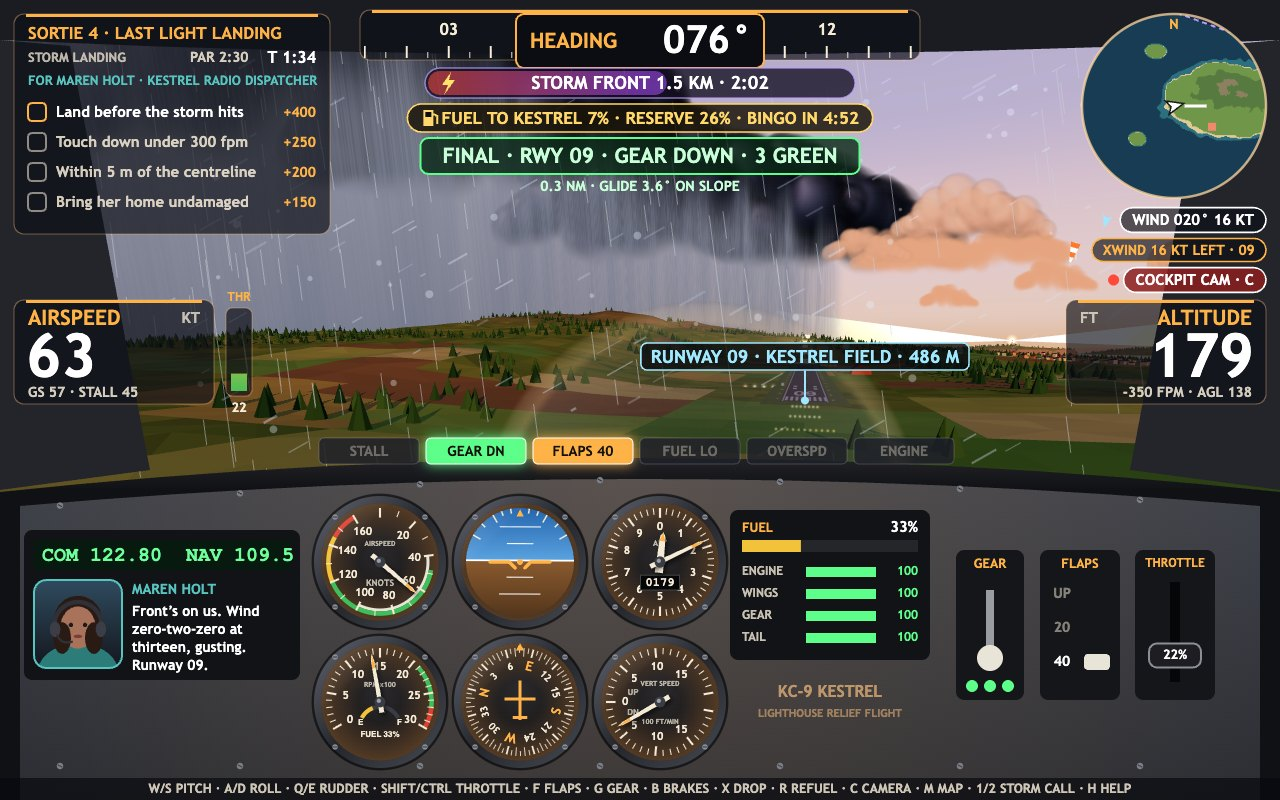
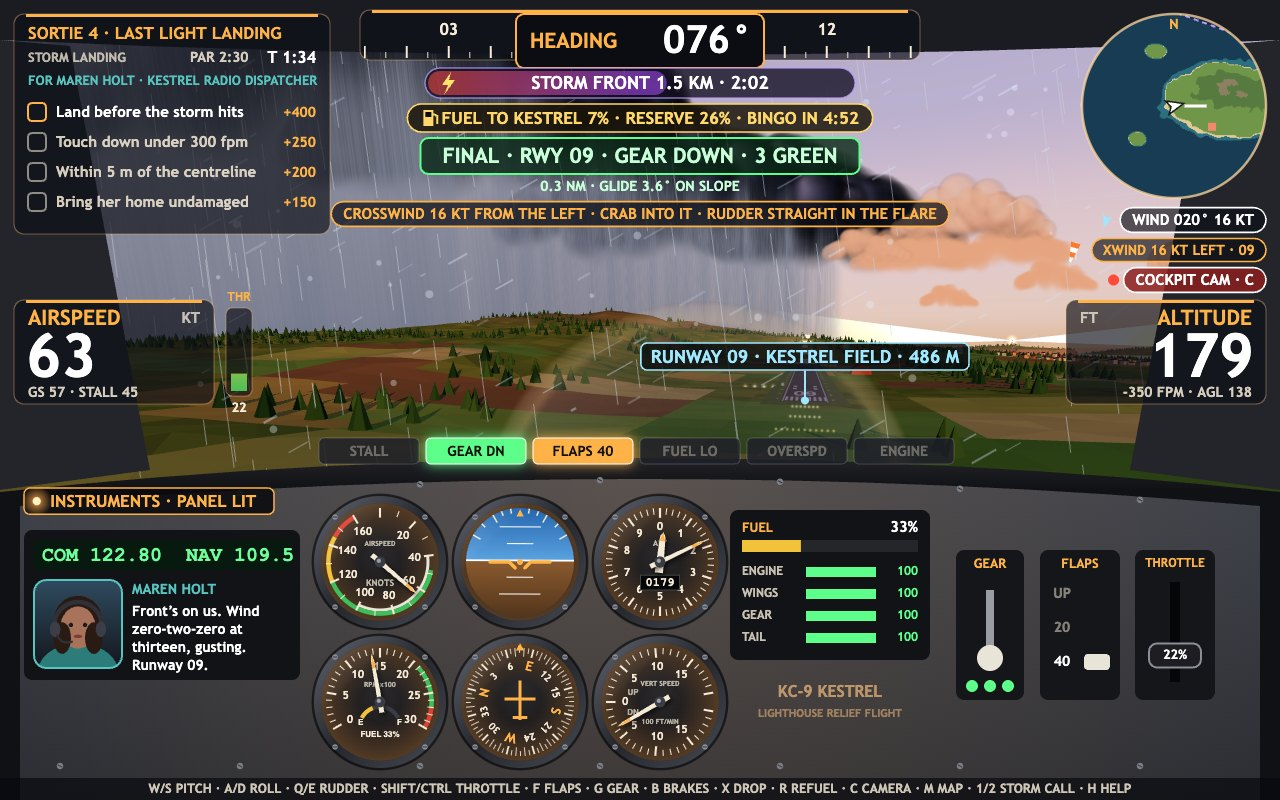
Windsocks swing with the wind, crosswind hint on final, cockpit INSTRUMENTS placard, board shows who each sortie is for and the career

Changed region(s): [[0.25, 0.25, 0.75, 0.3125], [0.0, 0.5938, 0.2188, 0.6562]]

diff --git a/game/src/mission-board.js b/game/src/mission-board.js
@@ -1,8 +1,10 @@
 // The mission board, the game's title screen: KESTREL COAST over the parked KC-9, the storm's
 // distance, and the four sorties as cards with their goal, par, fuel load, storm distance,
 // objectives and best stars. 1-4 or the arrows pick, Enter flies.
-import { FONT, panel, text } from './hud.js';
+import { FONT, measure, panel, text } from './hud-paint.js';
 import { MISSIONS, clock } from './missions.js';
+import { drawPortrait, speakerOf } from './radio-portraits.js';
+import { careerUpgrades, rankOf } from './pilot-career.js';
 import { createAircraft } from './flight-physics.js';
 import { quatFromAttitude } from './flight-math.js';
 
@@ -93,8 +95,23 @@ function stars(g, x, y, count, size, align = 'left') {
 }
 export { stars as drawStars };
 
+/** The pilot's rank, progress and fitted upgrades, top right of the board. */
+function careerStrip(g, x, y, w, career) {
+  const rank = rankOf(career.points);
+  panel(g, x, y, w, 112, '#ffd54a');
+  text(g, 'PILOT CAREER', x + 16, y + 20, 13, AMBER, 'left', 900);
+  text(g, `${career.points.toLocaleString('en-GB')} PTS · ${Object.values(career.medals).reduce((s, n) => s + n, 0)} MEDALS`, x + w - 16, y + 20, 12, 'rgba(246,236,216,0.8)', 'right', 800);
+  text(g, rank.name, x + 16, y + 48, 26, '#ffffff', 'left', 900);
+  g.fillStyle = 'rgba(255,255,255,0.12)';
+  g.fillRect(x + 16, y + 66, w - 32, 7);
+  g.fillStyle = '#ffd54a';
+  g.fillRect(x + 16, y + 66, (w - 32) * Math.min(1, rank.progress), 7);
+  const fitted = careerUpgrades(career);
+  text(g, fitted.length ? `FITTED: ${fitted.map((u) => u.name).join(' · ')}` : `NEXT RANK FITS THE LONG-RANGE TANK`, x + 16, y + 92, 11, fitted.length ? '#5dff8a' : 'rgba(246,236,216,0.7)', 'left', 800);
+}
+
 /** Draw the board. `best` maps mission id to best stars; `selected` is the highlighted index. */
-export function drawMissionBoard(g, W, H, selected, best, stormKm, time) {
+export function drawMissionBoard(g, W, H, selected, best, stormKm, time, career = null) {
   const shade = g.createLinearGradient(0, 0, 0, H);
   shade.addColorStop(0, 'rgba(10,10,20,0.55)');
   shade.addColorStop(0.35, 'rgba(10,10,20,0)');
@@ -106,7 +123,7 @@ export function drawMissionBoard(g, W, H, selected, best, stormKm, time) {
   text(g, 'LIGHTHOUSE RELIEF · A BUSH-PILOT SORTIE GAME', 44, 116, 20, AMBER, 'left', 800);
   g.fillStyle = 'rgba(20,16,34,0.78)';
   g.beginPath();
-  g.roundRect(44, 136, 470, 34, 17);
+  g.roundRect(44, 136, 500, 34, 17);
   g.fill();
   g.strokeStyle = 'rgba(190,160,255,0.7)';
   g.stroke();
@@ -138,9 +155,11 @@ export function drawMissionBoard(g, W, H, selected, best, stormKm, time) {
     g.arc(x + 46, y + 50, 30, 0, Math.PI * 2);
     g.fill();
     icon(g, i, x + 46, y + 50, 48, colour);
-    text(g, `${m.number}`, x + cardW - 22, y + 30, 30, colour, 'right', 900);
     text(g, m.kind.toUpperCase(), x + 88, y + 34, 13, colour, 'left', 800);
-    text(g, m.title, x + 88, y + 58, 21, '#ffffff', 'left', 800);
+    text(g, m.title, x + 88, y + 56, Math.min(21, (21 * (cardW - 100)) / measure(g, m.title, 21, 800)), '#ffffff', 'left', 800);
+    const client = speakerOf(m.client.who);
+    drawPortrait(g, x + 88, y + 70, 22, m.client.who);
+    text(g, `FOR ${client.name}`, x + 116, y + 82, 12, client.colour, 'left', 900);
     g.font = `600 14px ${FONT}`;
     const words = m.blurb.split(' ');
     let line = '';
@@ -148,7 +167,7 @@ export function drawMissionBoard(g, W, H, selected, best, stormKm, time) {
     for (const word of words) {
       const test = line ? `${line} ${word}` : word;
       if (g.measureText(test).width > cardW - 30) {
-        text(g, line, x + 16, y + 100 + row * 19, 14, 'rgba(255,244,224,0.88)', 'left', 600);
+        text(g, line, x + 16, y + 106 + row * 19, 14, 'rgba(255,244,224,0.88)', 'left', 600);
         line = word;
         row += 1;
       } else line = test;
@@ -166,6 +185,7 @@ export function drawMissionBoard(g, W, H, selected, best, stormKm, time) {
     stars(g, x + 16, y + cardH - 26, best[m.id] ?? 0, 20);
     text(g, on ? 'ENTER ▸ FLY' : `PRESS ${m.number}`, x + cardW - 16, y + cardH - 26, 15, on ? colour : 'rgba(255,244,224,0.55)', 'right', 800);
   });
+  if (career) careerStrip(g, W - 400, 24, 376, career);
   g.fillStyle = 'rgba(8,9,14,0.7)';
   g.fillRect(0, H - 22, W, 22);
   text(g, '1-4 / ◀ ▶ PICK A SORTIE · ENTER FLY · W/S PITCH · A/D ROLL · Q/E RUDDER · SHIFT/CTRL THROTTLE · F FLAPS · G GEAR · C CAMERA · M MAP', W / 2, H - 11, 13, 'rgba(246,236,216,0.82)', 'center', 700);

diff --git a/game/src/town-and-airstrips.js b/game/src/town-and-airstrips.js
@@ -84,7 +84,7 @@ function lightPoints(list, size) {
   return new THREE.Points(geometry, material);
 }
 
-function buildRunway(strip, group, papis) {
+function buildRunway(strip, group, papis, socks) {
   const { ax, az, rx, rz } = runwayAxes(strip);
   const angle = (-strip.heading * Math.PI) / 180;
   const pad = new THREE.Mesh(new THREE.PlaneGeometry(strip.width + 26, strip.length + 60), shareAtmosphere(new THREE.MeshLambertMaterial({ color: '#8d9a5a', polygonOffset: true, polygonOffsetFactor: -2, polygonOffsetUnits: -20 })));
@@ -157,10 +157,21 @@ function buildRunway(strip, group, papis) {
   const wz = strip.z - rz * (strip.width / 2 + 30) + az * (strip.length / 2 - 180);
   mast.position.set(wx, strip.elev + 4, wz);
   group.add(mast);
-  const sock = new THREE.Mesh(new THREE.ConeGeometry(0.9, 5, 10, 1, true), new THREE.MeshLambertMaterial({ color: '#ff7a2a', side: THREE.DoubleSide }));
-  sock.rotation.x = Math.PI / 2;
-  sock.position.set(wx, strip.elev + 7.6, wz + 2.5);
-  group.add(sock);
+  // The windsock hangs from a pivot on the mast top; the scene swings and fills it with the wind.
+  const pivot = new THREE.Group();
+  pivot.rotation.order = 'YXZ';
+  pivot.position.set(wx, strip.elev + 7.8, wz);
+  const stripes = ['#ff7a2a', '#ffffff', '#ff7a2a', '#ffffff', '#ff7a2a'];
+  stripes.forEach((colour, k) => {
+    const r0 = 0.95 - k * 0.14;
+    const r1 = r0 - 0.14;
+    const band = new THREE.Mesh(new THREE.CylinderGeometry(r1, r0, 1.1, 10, 1, true), new THREE.MeshLambertMaterial({ color: colour, side: THREE.DoubleSide }));
+    band.rotation.x = Math.PI / 2;
+    band.position.z = 0.6 + k * 1.1;
+    pivot.add(band);
+  });
+  group.add(pivot);
+  socks.push(pivot);
 }
 
 function prismGeometry() {
@@ -317,7 +328,8 @@ function buildForests(group) {
 export function createSettlements() {
   const group = new THREE.Group();
   const papis = [];
-  for (const strip of AIRSTRIPS) buildRunway(strip, group, papis);
+  const socks = [];
+  for (const strip of AIRSTRIPS) buildRunway(strip, group, papis, socks);
   buildTown(group);
   const kestrel = AIRSTRIPS[0];
   buildRoad(group, [[TOWN.x, TOWN.z], [TOWN.x - 120, TOWN.z - 400], [kestrel.x + 200, kestrel.z + 140], [kestrel.x + 200, kestrel.z + 60]]);
@@ -329,7 +341,20 @@ export function createSettlements() {
   }
   const papiPoints = lightPoints(papiLights, 7);
   group.add(papiPoints);
-  return { group, papis, papiPoints };
+  return { group, papis, papiPoints, socks };
+}
+
+/**
+ * Swing the windsocks into the wind and let them fill: `pose` is windsockPose() from
+ * wind-and-gusts.js. A light wind leaves them drooping; a gust stands them straight out and
+ * makes them flutter.
+ */
+export function updateWindsocks(settlements, pose, time) {
+  for (const pivot of settlements.socks) {
+    const flutter = Math.sin(time * 9 + pivot.position.x) * 0.05 * pose.fill;
+    pivot.rotation.y = pose.yaw + flutter;
+    pivot.rotation.x = (1 - pose.fill) * 1.15 + Math.abs(flutter) * 0.5;
+  }
 }
 
 /**

diff --git a/game/src/world-scene.js b/game/src/world-scene.js
@@ -1,11 +1,12 @@
 // Builds the whole 3D coast once (renderer, haze, sky, islands, sea, town and airstrips,
 // lighthouse, storm, clouds, the aircraft and its effects) and moves it every frame to match the
-// sortie: rings, PAPI, lighthouse sweep, storm distance and lightning, rain, camera.
+// sortie: rings, PAPI, windsocks, lighthouse sweep, storm distance and lightning, rain, camera.
 import * as THREE from 'three';
 import { buildHeightGrid, createHeightTexture, createTerrainMesh } from './world-terrain.js';
 import { createSea } from './world-sea.js';
 import { FOG_WARM, atmosphere, createClouds, createLights, createSkyDome, followShadow, installAtmosphereFog } from './world-sky.js';
-import { createSettlements, updatePapi } from './town-and-airstrips.js';
+import { createSettlements, updatePapi, updateWindsocks } from './town-and-airstrips.js';
+import { windsockPose } from './wind-and-gusts.js';
 import { createLighthouse, updateLighthouse } from './lighthouse.js';
 import { createStormVisuals, updateStormVisuals } from './storm-visuals.js';
 import { createAircraftModel, poseAircraftModel } from './aircraft-model.js';
@@ -81,6 +82,7 @@ export function createWorldScene(canvas) {
     updateRescueProps(fx, session, time);
     if (rings && ringSession === session) updateRingMarkers(rings, session, time);
     updatePapi(settlements, camera.position);
+    updateWindsocks(settlements, windsockPose(session.lastWind), time);
     updateLighthouse(lighthouse, time, camera.position);
     const grip = stormGrip(session.storm, camera.position.x, camera.position.z);
     const rain = Math.max(session.mission.rain ? 0.75 : 0, grip);

diff --git a/game/src/world-labels.js b/game/src/world-labels.js
@@ -108,14 +108,16 @@ export function drawRunwayTags(g, frame, target) {
     const w = g.measureText(label).width + 20;
     // Board down-left of the threshold, else down-right, else above it: never over the aircraft
     // (the chase view keeps her low in the middle) and never off the screen.
-    const plane = { x0: W / 2 - 160, x1: W / 2 + 160, y0: H * 0.58, y1: H * 0.8 };
-    const below = Math.min(H - 236, p.y + 40);
+    const cockpit = frame.view === 'cockpit';
+    const plane = cockpit ? { x0: 0, x1: 0, y0: 0, y1: 0 } : { x0: W / 2 - 160, x1: W / 2 + 160, y0: H * 0.58, y1: H * 0.8 };
+    const floor = cockpit ? H - 384 : H - 236;
+    const below = p.y + 40 < floor ? p.y + 40 : -999;
     const spots = [
       { x: p.x - 70 - w / 2, y: below },
       { x: p.x + 70 + w / 2, y: below },
       { x: Math.max(240 + w / 2, Math.min(W - 240 - w / 2, p.x)), y: p.y - 44 },
     ];
-    const fits = (s) => s.x - w / 2 > 230 && s.x + w / 2 < W - 230 && !(s.x + w / 2 > plane.x0 && s.x - w / 2 < plane.x1 && s.y + 14 > plane.y0 && s.y - 14 < plane.y1);
+    const fits = (s) => s.y > 0 && s.x - w / 2 > 230 && s.x + w / 2 < W - 230 && !(s.x + w / 2 > plane.x0 && s.x - w / 2 < plane.x1 && s.y + 14 > plane.y0 && s.y - 14 < plane.y1);
     const spot = spots.find(fits) ?? spots[2];
     const bx = spot.x;
     const by = spot.y;

diff --git a/game/src/pilot-hints.js b/game/src/pilot-hints.js
@@ -2,6 +2,7 @@
 // roll, clean up after takeoff, the stall recovery, gear and full flaps on final, brakes on the
 // rollout, refuel when stopped, and fuel discipline. Pure, so the fuzz test can call it too.
 import { KT } from './config.js';
+import { runwayWind } from './wind-and-gusts.js';
 
 export function pilotHint(session, approach) {
   const a = session.aircraft;
@@ -20,6 +21,8 @@ export function pilotHint(session, approach) {
   if (approach?.final && approach.distance < 3500) {
     if (!a.gearDown) return 'GEAR DOWN (G) FOR LANDING';
     if (a.flapDetent < 2) return 'FULL FLAPS (F) · 60–65 KT OVER THE FENCE';
+    const cross = runwayWind(session.lastWind, approach.threshold.heading);
+    if (cross.crossKt > 8) return `CROSSWIND ${Math.round(cross.crossKt)} KT FROM THE ${cross.side} · CRAB INTO IT · RUDDER STRAIGHT IN THE FLARE`;
     return null;
   }
   if (a.gearDown && a.agl > 120 && kt > 85) return 'CLEAN UP: GEAR UP (G) · FLAPS UP (F)';

diff --git a/game/src/cockpit-panel.js b/game/src/cockpit-panel.js
@@ -3,7 +3,7 @@
 // radio stack, fuel and airframe status, the gear lever with its three greens, the flap
 // indicator and the throttle quadrant, all live.
 import { drawSixPack } from './gauges.js';
-import { FONT, text } from './hud.js';
+import { FONT, text, titleTab } from './hud-paint.js';
 import { SPEAKERS, drawPortrait } from './radio-portraits.js';
 import { createRandom } from './random.js';
 
@@ -233,6 +233,7 @@ export function drawCockpitPanel(g, W, H, session, read, rain = 0) {
   ];
   const ordered = [slots[0], slots[1], slots[2], slots[4], slots[5], slots[3]];
   drawSixPack(g, ordered, r, { ...read, rpm: session.aircraft.rpm, fuel: session.aircraft.fuel });
+  titleTab(g, 'INSTRUMENTS · PANEL LIT', 24, top + 18, 17);
   radioStack(g, 24, top + 60, 276, session);
   statusBlock(g, W / 2 + 90, top + 40, 200, session.aircraft);
   gearLever(g, W / 2 + 350, top + 150, session.aircraft);

diff --git a/game/src/main.js b/game/src/main.js
@@ -264,7 +264,7 @@ function drawOverlay() {
   const session = game.session;
   if (game.banner && game.time > game.banner.until) game.banner = null;
   if (game.screen === 'board') {
-    drawMissionBoard(g, W, H, game.selected, game.best, session.storm.km, game.time);
+    drawMissionBoard(g, W, H, game.selected, game.best, session.storm.km, game.time, game.career);
     return;
   }
   if (game.screen === 'result') {
@@ -376,6 +376,7 @@ function runShot(name) {
   game.screen = scene.screen;
   game.view = scene.view;
   if (scene.best) game.best = scene.best;
+  if (scene.career) game.career = createCareer(scene.career);
   world.setSession(scene.session);
   let time = 40 + seed;
   let controls = { pitch: 0, roll: 0, yaw: 0, throttle: 0 };

diff --git a/game/src/shots.js b/game/src/shots.js
@@ -70,7 +70,7 @@ const SHOT_CAREER = { points: 1460, sorties: 6, medals: { greaser: 2, 'fuel-mise
 export function stageShot(name, seed) {
   if (name === 'board') {
     const session = createSession('rings', seed);
-    return { screen: 'board', session, view: 'orbit', pilot: null, settle: 0, best: { rings: 3, mail: 2, rescue: 1 } };
+    return { screen: 'board', session, view: 'orbit', pilot: null, settle: 0, best: { rings: 3, mail: 2, rescue: 1 }, career: { ...SHOT_CAREER, points: 3570 } };
   }
   if (name === 'career' || name === 'result') {
     // The whole ring course, pushing through the squall, to the landing card; the career banks it.
